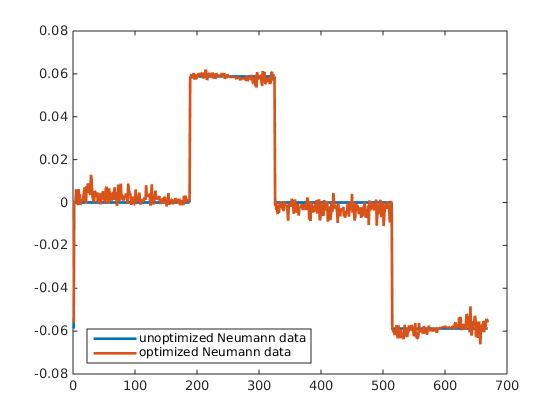
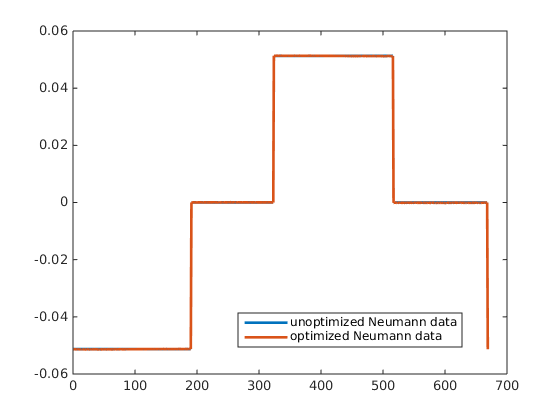
update partial data

diff --git a/demo_partial.m b/demo_partial.m
@@ -1,3 +1,5 @@
+%% Partial Data
+
 %% Parameters
 nodes = [0.1 0.9 0.9 0.1;0 0 1 1];
 femm_opt = struct('deg', 1, 'qdeg',4, 'min_area', 2e-5, 'edge', nodes);
@@ -9,18 +11,27 @@ aem_obj = aem(opt);
 noise = (2 * rand(aem_obj.cache.n, 2) - 1);
 
 
+mask = @(x)(1-(x(2,:) == 0));
+
+mask_nodes = mask(aem_obj.model.space.nodes);
+edge_nodes = unique(aem_obj.model.space.edges);
+mask_nodes = mask_nodes(edge_nodes);
+
 %% MAIN PROGRAM
 OPTIMIZE = 1;
 MAXITER = 10;
 % Two data sets. [GRADIENT, MEASUREMENT]
 
+n1 = @(x)(neumann_partial(x, mask));
+n2 = @(x)(neumann2_partial(x, mask));
+
 
 if OPTIMIZE
-    [v1, ~, ~] = aem_obj.measurement(@neumann);
+    [v1, ~, ~] = aem_obj.measurement(n1);
     
-    [v2_new, v2_new_bd, ~] = selectNeumann(aem_obj, v1, @neumann2);% compute the suitable v2 instead of prescribed one.
+    [v2_new, v2_new_bd, ~] = selectNeumann_partial(aem_obj, v1, n2, mask_nodes);% compute the suitable v2 instead of prescribed one.
     v2_new = v2_new - mean(v2_new);                                % project to the subspace.
-    [v1_new, v1_new_bd, ~] = selectNeumann(aem_obj, v2_new, @neumann); % compute the suitable v1 instead of prescribed one.
+    [v1_new, v1_new_bd, ~] = selectNeumann_partial(aem_obj, v2_new, n1, mask_nodes); % compute the suitable v1 instead of prescribed one.
     v1_new = v1_new - mean(v1_new);        
     
     v1_new = v1_new / norm(v1_new_bd);
@@ -37,12 +48,12 @@ if OPTIMIZE
         iter = iter + 1;
         v1 = v1_new;
         
-        [v2_new, v2_new_bd, ~] = selectNeumann(aem_obj, v1, v2_new_bd); % compute the suitable v2 instead of prescribed one.
+        [v2_new, v2_new_bd, ~] = selectNeumann_partial(aem_obj, v1, v2_new_bd, mask_nodes); % compute the suitable v2 instead of prescribed one.
         v2_new = v2_new - mean(v2_new); 
 
         v1_new_bd = v1_new_bd/norm(v1_new_bd);                          % project to the subspace.
         
-        [v1_new, v1_new_bd, ~] = selectNeumann(aem_obj, v2_new, v1_new_bd); % compute the suitable v1 instead of prescribed one.
+        [v1_new, v1_new_bd, ~] = selectNeumann_partial(aem_obj, v2_new, v1_new_bd, mask_nodes); % compute the suitable v1 instead of prescribed one.
         v1_new = v1_new - mean(v1_new);                                 % project to the subspace.
         
         v1_new = v1_new / norm(v1_new_bd);
@@ -59,8 +70,8 @@ if OPTIMIZE
     m2 = aem_obj.measurement_from_grad(v2g);
     
 else
-    [v1, v1g, m1] = aem_obj.measurement(@neumann);
-    [v2, v2g, m2] = aem_obj.measurement(@neumann2); % prescribed.
+    [v1, v1g, m1] = aem_obj.measurement(n1);
+    [v2, v2g, m2] = aem_obj.measurement(n2); % prescribed.
 end
 
 % Adding noise to each of measurements.

diff --git a/boundary/selectNeumann_partial.m b/boundary/selectNeumann_partial.m
@@ -1,0 +1,58 @@
+function [v2, x, fval] = selectNeumann_partial(obj, v1, neumann_bc, mask)
+
+n = obj.cache.n;
+edge_nodes = unique(obj.model.space.edges);
+if isempty(obj.cache.t)
+    obj.cache.t = (obj.cache.A - 1E-8*speye(n))\ obj.cache.e(:, edge_nodes);
+end
+
+m = size(obj.cache.t, 2);
+T = (obj.cache.t)' * (obj.cache.s * v1);
+T = T * T';
+
+Q = T + 1e-10* obj.cache.s(edge_nodes, edge_nodes); % add a small regularization.
+f = zeros(m,1);
+c = 0;
+
+% normalization
+H{1} = speye(m);
+k{1} = zeros(m,1);
+d{1} = -m/2;
+
+%%
+v= ver('MATLAB'); 
+if strcmp(v.Release, '(R2014b)')
+    
+    options = optimoptions(@fmincon,'Display', 'iter', 'Algorithm','interior-point',...
+        'GradObj','on','GradConstr','on',...
+        'Hessian', 'bfgs',...
+        'TolFun', 1e-8, 'TolX', 1e-8);
+else
+    
+    options = optimoptions(@fmincon,'Display', 'iter','Algorithm','interior-point',...
+        'SpecifyObjectiveGradient',true,'SpecifyConstraintGradient',true,...
+        'HessianApproximation', 'bfgs' ,...
+        'TolFun', 1e-8, 'TolX', 1e-8);
+
+end
+
+
+
+fun = @(x)quadobj(x,Q,f,c, mask);
+nonlconstr = @(x)quadconstr(x,H,k,d);
+
+% initial guess from a prescribed boundary condition.
+
+if isa(neumann_bc,'function_handle')
+    x0 = neumann_bc(obj.model.space.nodes)'; % Column vector
+    x0 = x0(edge_nodes);
+else
+    x0 = neumann_bc;
+end
+x0 = sqrt(m) * x0 / (x0'*x0);
+
+[x,fval] = fmincon(fun,x0,...
+    [],[],[],[],[],[],nonlconstr,options);
+
+v2 = obj.cache.t * x;
+end

diff --git a/utils/neumann_partial.m b/utils/neumann_partial.m
@@ -1,10 +1,12 @@
-function [ val ] = neumann( x )
+function [ val ] = neumann_partial( x, mask )
 % A Neumann boundary function
 
-theta = 0 ;
+theta =0;
 % cos theta, sin theta
 
 val = (cos(theta)* (x(1,:) == 0.9)) + (-cos(theta) .* (x(1,:) == 0.1)) + ...
     (-sin(theta) * (x(2,:) == 0)) + (sin(theta) * (x(2,:) == 1));
+
+val = val .* mask(x);
 
 end

diff --git a/utils/neumann2_partial.m b/utils/neumann2_partial.m
@@ -1,8 +1,9 @@
-function [ val ] = neumann2( x )
+function [ val ] = neumann2_partial( x, mask )
 % Another Neumann boundary function
 
-theta = pi/2 ;
+theta = pi/2;
 val = (cos(theta)* (x(1,:) == 0.9)) + (-cos(theta) .* (x(1,:) == 0.1)) + ...
    (-sin(theta) * (x(2,:) == 0)) + (sin(theta) * (x(2,:) == 1));
 
+val = val .* mask(x);
 end

diff --git a/boundary/quadobj.m b/boundary/quadobj.m
@@ -1,5 +1,13 @@
-function [y,grady] = quadobj(x,Q,f,c)
+function [y,grady] = quadobj(x,Q,f,c, mask)
 y = 1/2*x'*Q*x + f'*x + c;
+
+if nargin < 5
+    mask = ones(size(x))';
+end
+
 if nargout > 1
     grady = Q*x + f;
+    grady = grady .* mask';
 end
+
+
